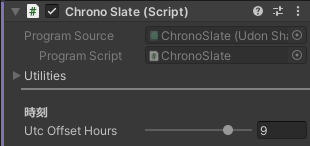
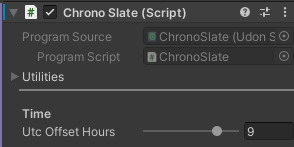
マテリアル一覧を実物に合わせ、Inspector画像を差し替え

diff --git a/chronoslate/manual_jp.html b/chronoslate/manual_jp.html
@@ -169,7 +169,7 @@ footer{margin-top:56px; padding-top:22px; border-top:1px solid var(--rail); font
     <p>配置したChronoSlateにあるChronoSlateコンポーネントで設定します。</p>
 
     <figure class="shot">
-      <img src="img/timezone.png" width="310" height="146" decoding="async"
+      <img src="img/timezone.png" width="294" height="147" decoding="async"
            alt="InspectorのChronoSlateコンポーネント。Timeの項目にUtc Offset Hoursのスライダーがあり、値は9">
       <figcaption>InspectorのTimeにあるUtc Offset Hoursで設定します。</figcaption>
     </figure>
@@ -209,22 +209,22 @@ footer{margin-top:56px; padding-top:22px; border-top:1px solid var(--rail); font
       3.ウィンドウのNew materialに任意のマテリアルを設定</p>
     </div>
 
-    <h3>Materials/Common — 24種</h3>
+    <h3>Materials/Common — 25種</h3>
     <p>このディレクトリのマテリアルはフレーム・数字・背景のどこにでも使用可能です。</p>
     <ul class="chips">
-      <li>Fabric01–06</li><li>Glass01–02</li><li>Lava01</li><li>Metal01–05</li><li>Stone01–05</li><li>Wood01–05</li>
+      <li>Fabric01–06</li><li>Glass01–02</li><li>Glitter01</li><li>Lava01</li><li>Metal01–05</li><li>Stone01–05</li><li>Wood01–05</li>
     </ul>
 
-    <h3>Materials/Back — 背景用6種</h3>
+    <h3>Materials/Back — 背景用7種</h3>
     <p>背景用に使うことを想定したマテリアルです。</p>
-    <ul class="chips"><li>Emission01</li><li>Emission02</li><li>Emission03</li><li>Emission04</li><li>Emission05</li><li>Emission06</li></ul>
+    <ul class="chips"><li>Emission01</li><li>Emission02</li><li>Emission03</li><li>Emission04</li><li>Emission05</li><li>Emission06</li><li>Picture01</li></ul>
 
-    <h3>Materials/Number — 数字用6種</h3>
+    <h3>Materials/Number — 数字用5種</h3>
     <p>数字用に使うことを想定したマテリアルです。</p>
-    <ul class="chips"><li>Emission1</li><li>Emission2</li><li>Emission3</li><li>Glass1</li><li>Glitter1</li><li>White</li></ul>
+    <ul class="chips"><li>Emission01</li><li>Emission02</li><li>Emission03</li><li>Glass01</li><li>White01</li></ul>
 
     <div class="note">
-      <p><strong>Glass系は描画負荷が高めです。</strong><code>Common_Glass01</code>/<code>Common_Glass02</code>/<code>Number_Glass1</code>はPoiyomi Toon Grab Passを使用しています。負荷が気になるワールドでは他のマテリアルをご利用ください。</p>
+      <p><strong>Glass系は描画負荷が高めです。</strong><code>Common_Glass01</code>/<code>Common_Glass02</code>/<code>Number_Glass01</code>はPoiyomi Toon Grab Passを使用しています。負荷が気になるワールドでは他のマテリアルをご利用ください。</p>
     </div>
   </section>
 

diff --git a/chronoslate/manual_en.html b/chronoslate/manual_en.html
@@ -169,7 +169,7 @@ footer{margin-top:56px; padding-top:22px; border-top:1px solid var(--rail); font
     <p>Select the prefab root <code>ChronoSlate</code> and set the field on the <strong>ChronoSlate</strong> component.</p>
 
     <figure class="shot">
-      <img src="img/timezone.png" width="310" height="146" decoding="async"
+      <img src="img/timezone.png" width="294" height="147" decoding="async"
            alt="The ChronoSlate component in the Inspector, showing the Utc Offset Hours slider set to 9">
       <figcaption>Set <code>Utc Offset Hours</code> under Time in the Inspector.</figcaption>
     </figure>
@@ -208,22 +208,22 @@ footer{margin-top:56px; padding-top:22px; border-top:1px solid var(--rail); font
       3. Set any material in the window's New material field</p>
     </div>
 
-    <h3>Materials/Common — 24 finishes</h3>
+    <h3>Materials/Common — 25 finishes</h3>
     <p>Materials in this folder can be used anywhere — frame, digits or backplate.</p>
     <ul class="chips">
-      <li>Fabric01–06</li><li>Glass01–02</li><li>Lava01</li><li>Metal01–05</li><li>Stone01–05</li><li>Wood01–05</li>
+      <li>Fabric01–06</li><li>Glass01–02</li><li>Glitter01</li><li>Lava01</li><li>Metal01–05</li><li>Stone01–05</li><li>Wood01–05</li>
     </ul>
 
-    <h3>Materials/Back — 6 backplate finishes</h3>
+    <h3>Materials/Back — 7 backplate finishes</h3>
     <p>Intended for the backplate.</p>
-    <ul class="chips"><li>Emission01</li><li>Emission02</li><li>Emission03</li><li>Emission04</li><li>Emission05</li><li>Emission06</li></ul>
+    <ul class="chips"><li>Emission01</li><li>Emission02</li><li>Emission03</li><li>Emission04</li><li>Emission05</li><li>Emission06</li><li>Picture01</li></ul>
 
-    <h3>Materials/Number — 6 digit finishes</h3>
+    <h3>Materials/Number — 5 digit finishes</h3>
     <p>Intended for the digits.</p>
-    <ul class="chips"><li>Emission1</li><li>Emission2</li><li>Emission3</li><li>Glass1</li><li>Glitter1</li><li>White</li></ul>
+    <ul class="chips"><li>Emission01</li><li>Emission02</li><li>Emission03</li><li>Glass01</li><li>White01</li></ul>
 
     <div class="note">
-      <p><strong>The glass finishes are expensive to render.</strong> <code>Common_Glass01</code>, <code>Common_Glass02</code> and <code>Number_Glass1</code> use Poiyomi Toon Grab Pass. Pick another material if your world is tight on performance.</p>
+      <p><strong>The glass finishes are expensive to render.</strong> <code>Common_Glass01</code>, <code>Common_Glass02</code> and <code>Number_Glass01</code> use Poiyomi Toon Grab Pass. Pick another material if your world is tight on performance.</p>
     </div>
   </section>
 
